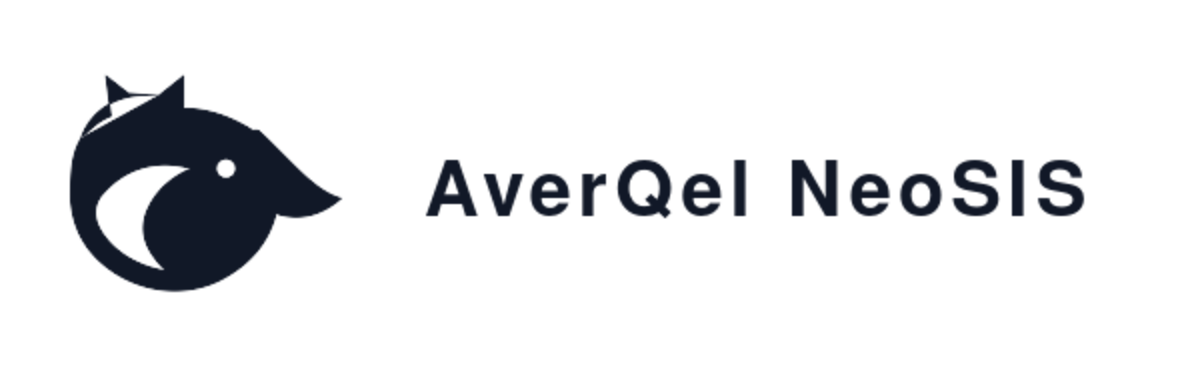
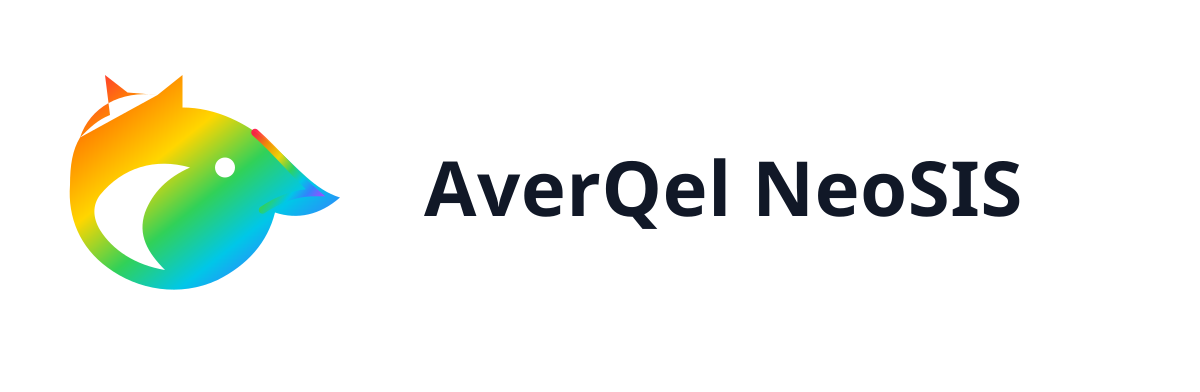
Apply rainbow branding across app assets

Changed region(s): [[0.0308, 0.1837, 0.3083, 0.7653], [0.3392, 0.398, 0.925, 0.5816]]

diff --git a/packages/client/ui-primitives/src/FishLogo.tsx b/packages/client/ui-primitives/src/FishLogo.tsx
@@ -1,3 +1,4 @@
+import { useId } from 'react'
 import type { IconProps } from './icons/props.ts'
 
 /** Native viewBox of the AverQel NeoSIS mascot mark. */
@@ -9,12 +10,32 @@ export const FISH_LOGO_PATH = 'M12 27C16 15 28 8 43 10L53 2L53 15C66 15 79 21 90
 const AVERQEL_MARK_TRAIL = 'M82 25C91 33 99 43 106 49C98 49 91 52 85 56'
 
 /**
+ * Render the shared AverQel NeoSIS rainbow gradient definition.
+ * @param props.id - unique SVG id used by the mark paths.
+ * @returns SVG gradient stops for a brand mark.
+ */
+export function BrandRainbowDefs({ id }: { id: string }) {
+  return (
+    <linearGradient id={id} x1="0%" y1="0%" x2="100%" y2="100%">
+      <stop offset="0%" stopColor="#ff1744" />
+      <stop offset="18%" stopColor="#ff8a00" />
+      <stop offset="36%" stopColor="#ffd600" />
+      <stop offset="54%" stopColor="#31d158" />
+      <stop offset="70%" stopColor="#00c7e8" />
+      <stop offset="84%" stopColor="#397bff" />
+      <stop offset="100%" stopColor="#c13cff" />
+    </linearGradient>
+  )
+}
+
+/**
  * Render the AverQel NeoSIS mascot mark.
  * @param props.size - width in px (default 24; height keeps the 4:3 mark ratio).
  * @param props.className - extra class for layout placement.
  * @returns the mark svg (aria-hidden; pair with the wordmark for accessibility).
  */
 export function FishLogo({ size = 24, className }: IconProps) {
+  const gradientId = `neosis-brand-rainbow-${useId().replaceAll(':', '')}`
   return (
     <svg
       width={size}
@@ -24,8 +45,11 @@ export function FishLogo({ size = 24, className }: IconProps) {
       fill="none"
       aria-hidden="true"
     >
-      <path d={FISH_LOGO_PATH} fill="currentColor" fillRule="evenodd" clipRule="evenodd" />
-      <path d={AVERQEL_MARK_TRAIL} fill="none" stroke="currentColor" strokeWidth="3" strokeLinecap="round" opacity=".72" />
+      <defs>
+        <BrandRainbowDefs id={gradientId} />
+      </defs>
+      <path d={FISH_LOGO_PATH} fill={`url(#${gradientId})`} fillRule="evenodd" clipRule="evenodd" />
+      <path d={AVERQEL_MARK_TRAIL} fill="none" stroke={`url(#${gradientId})`} strokeWidth="3" strokeLinecap="round" opacity=".92" />
     </svg>
   )
 }

diff --git a/packages/client/ui-primitives/src/BrandWordmark.tsx b/packages/client/ui-primitives/src/BrandWordmark.tsx
@@ -1,3 +1,5 @@
+import { useId } from 'react'
+import { BrandRainbowDefs } from './FishLogo.tsx'
 import type { IconProps } from './icons/props.ts'
 
 /** Display options for the AverQel NeoSIS wordmark. */
@@ -17,6 +19,7 @@ const MARK_TRAIL = 'M82 25C91 33 99 43 106 49C98 49 91 52 85 56'
  */
 export function BrandWordmark({ size = 24, className, includeMark = true }: BrandWordmarkProps) {
   const width = includeMark ? 182 : 156
+  const gradientId = `neosis-brand-rainbow-${useId().replaceAll(':', '')}`
   return (
     <svg
       width={(size * width) / 24}
@@ -27,9 +30,14 @@ export function BrandWordmark({ size = 24, className, includeMark = true }: Bran
       aria-hidden="true"
     >
       {includeMark && (
+        <defs>
+          <BrandRainbowDefs id={gradientId} />
+        </defs>
+      )}
+      {includeMark && (
         <g transform="translate(0 3) scale(.1875)">
-          <path d={MARK_PATH} fill="currentColor" fillRule="evenodd" clipRule="evenodd" />
-          <path d={MARK_TRAIL} fill="none" stroke="currentColor" strokeWidth="3" strokeLinecap="round" opacity=".72" />
+          <path d={MARK_PATH} fill={`url(#${gradientId})`} fillRule="evenodd" clipRule="evenodd" />
+          <path d={MARK_TRAIL} fill="none" stroke={`url(#${gradientId})`} strokeWidth="3" strokeLinecap="round" opacity=".92" />
         </g>
       )}
       <text x={includeMark ? 30 : 26} y="16.5" fill="currentColor" fontFamily="Inter,Segoe UI,sans-serif" fontSize="10.5" fontWeight="600" letterSpacing=".15">AverQel NeoSIS</text>

diff --git a/apps/web/tests/pwa-manifest.e2e.ts b/apps/web/tests/pwa-manifest.e2e.ts
@@ -28,16 +28,14 @@ it('ships install metadata with the built web application', async () => {
   })
 })
 
-it('ships fixed-color favicons selected by document media queries', async () => {
+it('ships the rainbow favicon through both document media queries', async () => {
   const index = await readFile(join(DIST_ROOT, 'index.html'), 'utf8')
-  expect(index).toContain('<link rel="icon" type="image/svg+xml" href="./favicon-dark.svg?v=averqel-neosis-2" media="(prefers-color-scheme: dark)" />')
-  expect(index).toContain('<link rel="icon" type="image/svg+xml" href="./favicon.svg?v=averqel-neosis-2" media="(prefers-color-scheme: light)" />')
+  expect(index).toContain('<link rel="icon" type="image/svg+xml" href="./favicon-dark.svg?v=averqel-neosis-3" media="(prefers-color-scheme: dark)" />')
+  expect(index).toContain('<link rel="icon" type="image/svg+xml" href="./favicon.svg?v=averqel-neosis-3" media="(prefers-color-scheme: light)" />')
   const light = await readFile(join(DIST_ROOT, 'favicon.svg'), 'utf8')
   const dark = await readFile(join(DIST_ROOT, 'favicon-dark.svg'), 'utf8')
-  expect(light).not.toContain('<style>')
-  expect(light).toContain('fill="#111827"')
-  expect(light).toContain('stroke="#111827"')
-  expect(dark).toContain('fill="#F9FAFB"')
-  expect(dark).toContain('stroke="#F9FAFB"')
-  expect(dark).not.toBe(light)
+  expect(light).toContain('id="rainbow"')
+  expect(light).toContain('fill="url(#rainbow)"')
+  expect(light).toContain('stroke="url(#rainbow)"')
+  expect(dark).toBe(light)
 })

diff --git a/packages/client/ui-brand-averqel/src/client/Brand.tsx b/packages/client/ui-brand-averqel/src/client/Brand.tsx
@@ -1,7 +1,5 @@
+import { FishLogo } from '@averqel/neosis-client-ui-primitives'
 import type { SidebarBrandMarkOwnerProps } from '@averqel/neosis-client-ui-sidebar/client'
-
-const MARK_PATH = 'M12 27C16 15 28 8 43 10L53 2L53 15C66 15 79 21 90 31C99 39 106 48 116 51C108 58 99 60 90 57C87 69 79 78 67 84C52 91 35 88 23 79C12 71 7 59 8 46C8 38 9 32 12 27C16 23 19 20 24 18L22 2L31 9L43 10Z M70 35A4 4 0 1 0 70 43A4 4 0 1 0 70 35ZM20 50C29 39 42 35 56 39C47 43 41 49 38 57C35 66 39 73 46 80C34 78 25 72 20 64C17 59 17 54 20 50Z'
-const MARK_TRAIL = 'M82 25C91 33 99 43 106 49C98 49 91 52 85 56'
 
 /**
  * Render the AverQel NeoSIS mascot mark.
@@ -9,19 +7,7 @@ const MARK_TRAIL = 'M82 25C91 33 99 43 106 49C98 49 91 52 85 56'
  * @returns the AverQel NeoSIS logo mark.
  */
 export function AverQelBrandMark({ size }: SidebarBrandMarkOwnerProps) {
-  return (
-    <svg
-      width={size}
-      height={(size * 96) / 128}
-      viewBox="0 0 128 96"
-      fill="none"
-      xmlns="http://www.w3.org/2000/svg"
-      aria-hidden="true"
-    >
-      <path d={MARK_PATH} fill="currentColor" fillRule="evenodd" clipRule="evenodd" />
-      <path d={MARK_TRAIL} fill="none" stroke="currentColor" strokeWidth="3" strokeLinecap="round" opacity=".72" />
-    </svg>
-  )
+  return <FishLogo size={size} />
 }
 /**
  * Render the AverQel NeoSIS name artwork without its independently slotted mark.

diff --git a/packages/client/ui-primitives/tests/icons.client.spec.tsx b/packages/client/ui-primitives/tests/icons.client.spec.tsx
@@ -130,7 +130,8 @@ describe('FishLogo', () => {
     expect(Number(svg.getAttribute('height'))).toBeCloseTo(18, 1)
     expect(svg.getAttribute('viewBox')).toBe('0 0 128 96')
     expect(container.querySelectorAll('path')).toHaveLength(2)
-    expect(container.innerHTML).toContain('currentColor')
+    expect(container.querySelector('linearGradient')?.querySelectorAll('stop')).toHaveLength(7)
+    expect(container.innerHTML).toContain('url(#neosis-brand-rainbow-')
     expect(container.innerHTML).not.toContain('whale')
   })
 })
@@ -141,9 +142,11 @@ describe('BrandWordmark', () => {
     const svg = view.container.querySelector('svg')!
     expect(svg.getAttribute('width')).toBe('182')
     expect(svg.getAttribute('viewBox')).toBe('0 0 182 24')
+    expect(view.container.querySelector('linearGradient')?.querySelectorAll('stop')).toHaveLength(7)
 
     view.rerender(<primitives.BrandWordmark includeMark={false} />)
     expect(svg.getAttribute('width')).toBe('156')
     expect(svg.getAttribute('viewBox')).toBe('26 0 156 24')
+    expect(view.container.querySelector('linearGradient')).toBeNull()
   })
 })

diff --git a/website/.vitepress/config.ts b/website/.vitepress/config.ts
@@ -181,8 +181,9 @@ const siteIdentity = {
 }
 
 /**
- * The AverQel wordmark, inlined so its `currentColor` fills follow the active
- * theme. An `<img>` would freeze the mark at the colors the file declares.
+ * The AverQel wordmark, inlined so its text follows the active theme while its
+ * rainbow mark keeps the shared brand colors. An `<img>` would freeze the text
+ * at the color the file declares.
  */
 const wordmark = readFileSync(resolve(import.meta.dirname, '../public/wordmark.svg'), 'utf8')
   .trim()
@@ -275,7 +276,7 @@ export default withMermaid({
   },
   head: [
     // VitePress leaves head hrefs untouched, so the base belongs here explicitly.
-    ['link', { rel: 'icon', type: 'image/svg+xml', href: `${base}favicon.svg` }],
+    ['link', { rel: 'icon', type: 'image/svg+xml', href: `${base}favicon.svg?v=averqel-neosis-3` }],
     ['style', {}, siteStyle],
     ['script', {}, scrollbarScript],
   ],

diff --git a/apps/web/index.html b/apps/web/index.html
@@ -4,8 +4,8 @@
     <meta charset="utf-8" />
     <meta name="viewport" content="width=device-width, initial-scale=1" />
     <link rel="manifest" href="/manifest.webmanifest" />
-    <link rel="icon" type="image/svg+xml" href="/favicon-dark.svg?v=averqel-neosis-2" media="(prefers-color-scheme: dark)" />
-    <link rel="icon" type="image/svg+xml" href="/favicon.svg?v=averqel-neosis-2" media="(prefers-color-scheme: light)" />
+    <link rel="icon" type="image/svg+xml" href="/favicon-dark.svg?v=averqel-neosis-3" media="(prefers-color-scheme: dark)" />
+    <link rel="icon" type="image/svg+xml" href="/favicon.svg?v=averqel-neosis-3" media="(prefers-color-scheme: light)" />
     <title>AverQel NeoSIS</title>
   </head>
   <body>
